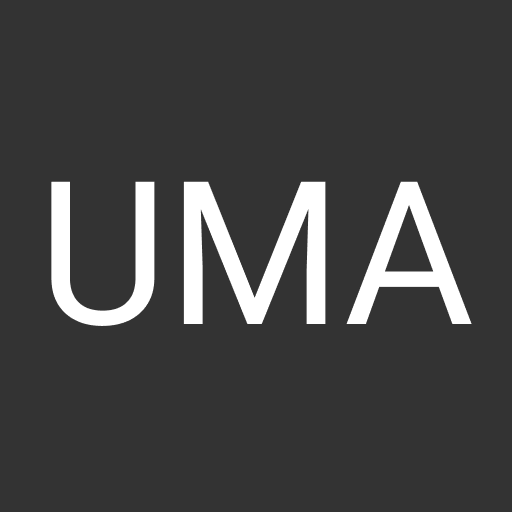
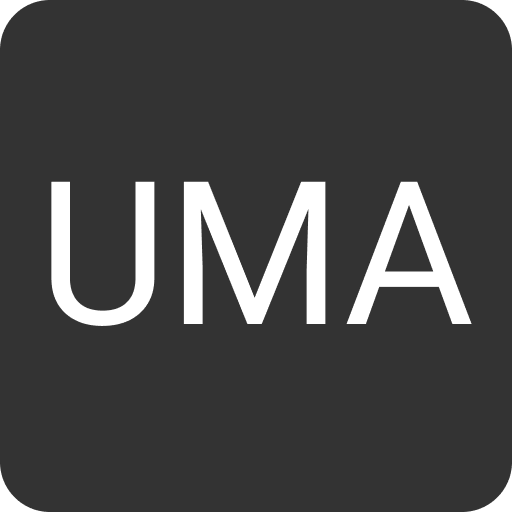
PWA対応

diff --git a/index.html b/index.html
@@ -1,42 +1,39 @@
 <!DOCTYPE html>
 <html lang="en">
 <head>
-<meta charset="UTF-8">
-<meta http-equiv="X-UA-Compatible" content="IE=edge">
-<meta name="viewport" content="width=device-width, initial-scale=1.0, minimum-scale=1.0, maximum-scale=1.0, user-scalable=no">
-<link rel="stylesheet" href="css/style.css">
-<script type="application/tsv" src="data/events.json"></script>
-<script src="js/main.js"></script>
-
-<title>Document</title>
+    <meta charset="UTF-8">
+    <meta http-equiv="X-UA-Compatible" content="IE=edge">
+    <meta name="viewport" content="width=device-width, initial-scale=1.0, minimum-scale=1.0, maximum-scale=1.0, user-scalable=no">
+    <link rel="stylesheet" href="css/style.css">
+    <script type="application/tsv" src="data/events.json"></script>
+    <script src="js/main.js"></script>
+    <script src="pwa-setup.js"></script>
+    <title>Document</title>
 </head>
 <body>
-
-<div class="content">
-    <header>
-        <div class="inputbox">
-            <input type="text">
-            <button>✕</button>
-        </div>
-        <span class="event-counter"></span>
-    </header>
-    <div class="event-list"></div>
-</div>
-
-<div class="event-template">
-    <div class="event">
-        <h2 class="title">趣味、特技、休日の過ごし方</h2>
-        <table>
-            <tbody></tbody>
-        </table>
-        <div>
-            [<span class="card-type">育成ウマ娘</span>]
-            <span class="card-name">サイレンススズカ</span>
-            <span class="card-rank">★★★☆☆</span>
-        </div>
-        <span class="fulltext hidden"></span>
+    <div class="content">
+        <header>
+            <div class="inputbox">
+                <input type="text">
+                <button>✕</button>
+            </div>
+            <span class="event-counter"></span>
+        </header>
+        <div class="event-list"></div>
     </div>
-</div>
-
+    <div class="event-template">
+        <div class="event">
+            <h2 class="title">趣味、特技、休日の過ごし方</h2>
+            <table>
+                <tbody></tbody>
+            </table>
+            <div>
+                [<span class="card-type">育成ウマ娘</span>]
+                <span class="card-name">サイレンススズカ</span>
+                <span class="card-rank">★★★☆☆</span>
+            </div>
+            <span class="fulltext hidden"></span>
+        </div>
+    </div>
 </body>
 </html>

diff --git a/js/sw.js b/js/sw.js
@@ -1,0 +1,30 @@
+//キャッシュ名
+var CACHE_NAME  = "tee5/uma";
+
+//キャッシュするファイル名
+var urlsToCache = [
+    "/tee5.github.io/uma/"
+];
+
+//インストール時処理
+self.addEventListener('install', function(event) {
+    event.waitUntil(
+        caches
+        .open(CACHE_NAME)
+        .then(cache => cache.addAll(urlsToCache))
+    );
+});
+
+// フェッチ時のキャッシュロード処理（2019/07/18 更新）
+self.addEventListener('fetch', function(event) {
+    event.respondWith(
+        caches
+        .match(event.request)
+        .then(function(response) {
+            if (response) {
+                return response;
+            }
+            return fetch(event.request);
+        })
+    );
+});

diff --git a/js/pwa-setup.js b/js/pwa-setup.js
@@ -1,0 +1,14 @@
+$(function () {
+    //Service Workerの登録
+    if ('serviceWorker' in navigator) {
+        navigator.serviceWorker.register('sw.js')
+        .then(function (registration) {
+            if (typeof registration.update == 'function') {
+                registration.update();
+            }
+        })
+        .catch(function (error) {
+            console.log("Error Log: " + error);
+        });
+    }
+});
